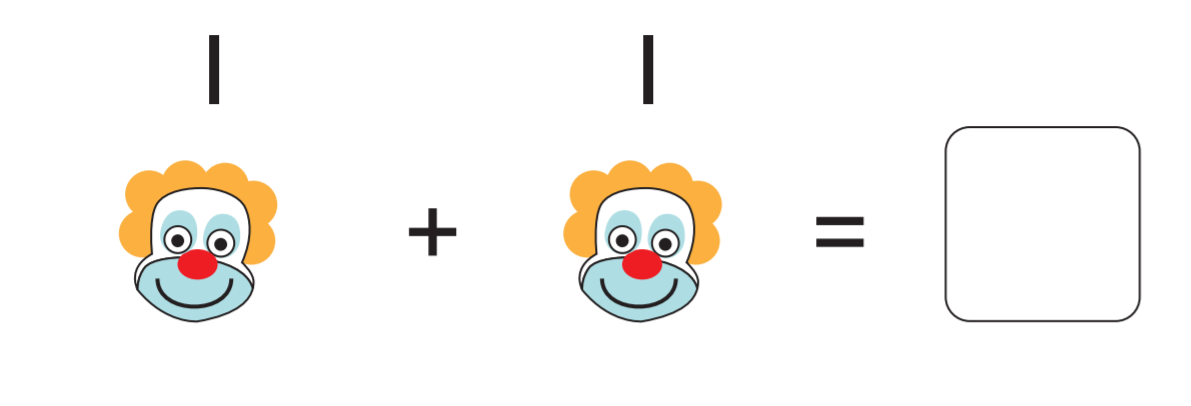
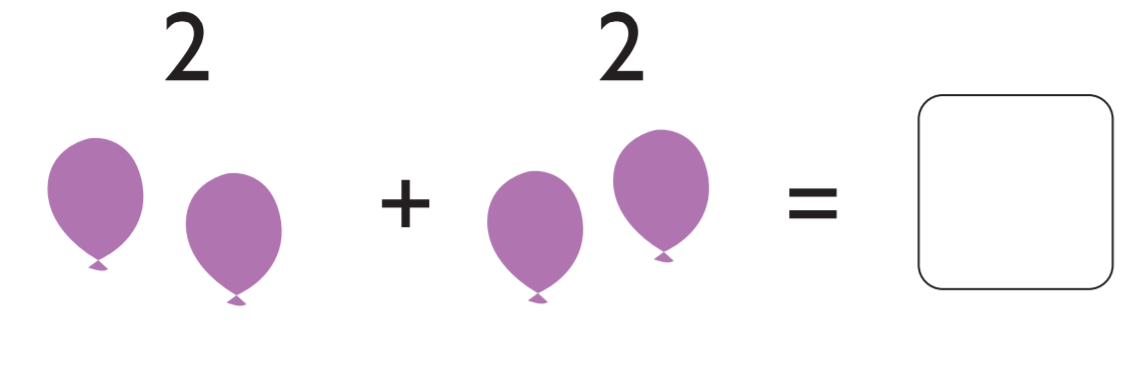
Added pictures in math addition

diff --git a/src/app/shared/question/question.component.html b/src/app/shared/question/question.component.html
@@ -4,7 +4,7 @@
       <div class="card">
         <div *ngIf="image" class="card-header">
           <p class="mt-1">Прашање {{questionIndex+1}} од {{questions.length}}</p>
-          <hr>
+          <hr *ngIf="image !== 'addition'">
           <h5 *ngIf="image ==='emotion'">{{currentQuestion}}</h5>
           <h6 *ngIf="image ==='sport'">{{currentQuestion}}</h6>
         </div>
@@ -15,8 +15,11 @@
           <h1>{{sign}}</h1>
           <h1>{{numberTwo}}</h1>
         </div>
-        <div *ngIf="image" class="card-body card-img">
+        <div *ngIf="image && image !== 'addition'" class="card-body card-img">
           <img class="mb-3 img-fluid" src="assets/{{image}}_{{questionIndex}}.jpg" />
+        </div>
+        <div *ngIf="image && image === 'addition'" class="card-body card-img">
+          <img class="mb-3 img-fluid" src="assets/{{image}}_{{questionIndex}}.png" />
         </div>
         <div class="card-footer grow" *ngFor="let option of currentOptions">
           <button class="btn answer" (click)="setUserAnswer(option)" id="option/{{questionIndex}}" value="option">{{option}}</button>

diff --git a/src/app/math/math-addition/math-addition.component.ts b/src/app/math/math-addition/math-addition.component.ts
@@ -1,5 +1,5 @@
 import { Component,  OnInit } from '@angular/core';
-import { Answers, Question } from 'src/app/interfaces/answers';
+import { Answers, ImageType, Question } from 'src/app/interfaces/answers';
 
 @Component({
   selector: 'app-math-addition',
@@ -10,20 +10,31 @@ export class MathAdditionComponent {
 
   questions: Question[] = [
     {
+      question: '1+1',
+      options: ['2', '5', '6'],
+      answer: '2'
+    },
+    {
       question: '2+2?',
-      options: ['4', '5', '6'],
+      options: ['2', '4', '7'],
       answer: '4'
     },
     {
-      question: '3+4?',
-      options: ['2', '12', '7'],
-      answer: '7'
+      question: '2+1?',
+      options: ['1', '9', '3'],
+      answer: '3'
     },
     {
-      question: '1+8?',
-      options: ['1', '9', '5'],
-      answer: '9'
+      question: '4+4?',
+      options: ['8', '9', '3'],
+      answer: '8'
+    },
+    {
+      question: '5+1?',
+      options: ['1', '9', '6'],
+      answer: '6'
     }
   ];
 
+  imageType: ImageType = ImageType.Addition;
 }

diff --git a/src/styles.css b/src/styles.css
@@ -2,9 +2,11 @@
 
 @import '../node_modules/bootstrap/dist/css/bootstrap.min.css';
 
-.toast-top-center {
-  top: 80%;
-  margin-right: 40.2%;
+@media (min-width: 1200px) {
+  .toast-top-center {
+    top: 80%;
+    margin-right: 40.2%;
+  }
 }
 
 html, body, app-root {
@@ -15,7 +17,7 @@ html, body, app-root {
 @media (max-width: 768px) {
   .toast-top-center {
     top: 80%;
-    margin-right: 10%;
+    margin-right: 10% !important;
   }
 }
 

diff --git a/src/app/shared/questions/questions.component.ts b/src/app/shared/questions/questions.component.ts
@@ -37,6 +37,10 @@ export class QuestionsComponent implements OnInit {
           this.image = 'sport'
           break;
         }
+        case ImageType.Addition: {
+          this.image = 'addition'
+          break;
+        }
       }
     }
   }

diff --git a/src/app/math/math-addition/math-addition.component.html b/src/app/math/math-addition/math-addition.component.html
@@ -1,1 +1,1 @@
-<app-questions [questions]="questions"></app-questions>
+<app-questions [questions]="questions" [imageType]="imageType"></app-questions>
